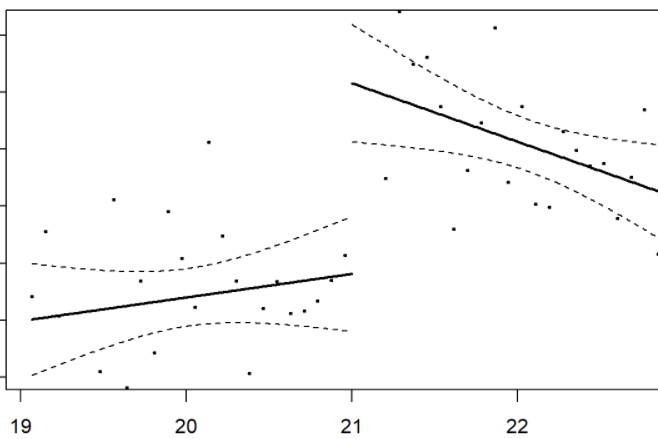
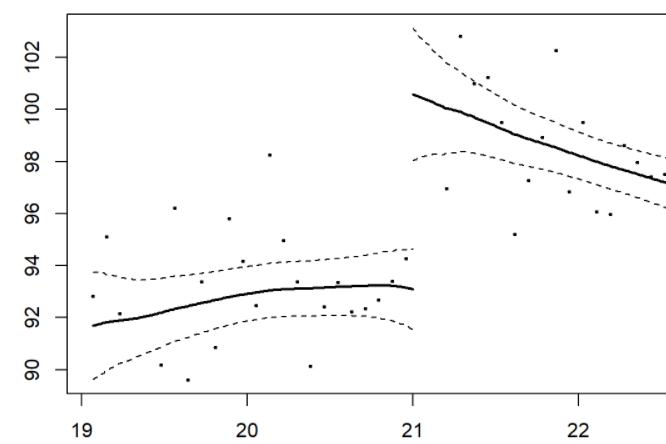
Add files via upload

diff --git a/index.html b/index.html
@@ -89,15 +89,13 @@
 								<article class="col-6 col-12-xsmall work-item">
 									<a href="./images/fulls/RD.PNG" class="image fit thumb"><img src="./images/thumbs/RD.PNG" alt="" /></a>
 									<h3>Regression Discontinuity</h3>
-									<p>I use R in order to reproduce some figures on regression discontinuity. </p>
+									<p>I use R in order to replicate some figures of the paper by Carpenter and Dobkin (2009). </p>
 									<ul class="actions">
 										<li><a href="https://rpubs.com/Aguiar28D/730948" class="button">View</a></li>
 									</ul>
 								</article>
 														
 								
-							
-											
 						</div>
 						<ul class="actions">
 							<li><a href="#" class="button">Full Portfolio</a></li>
